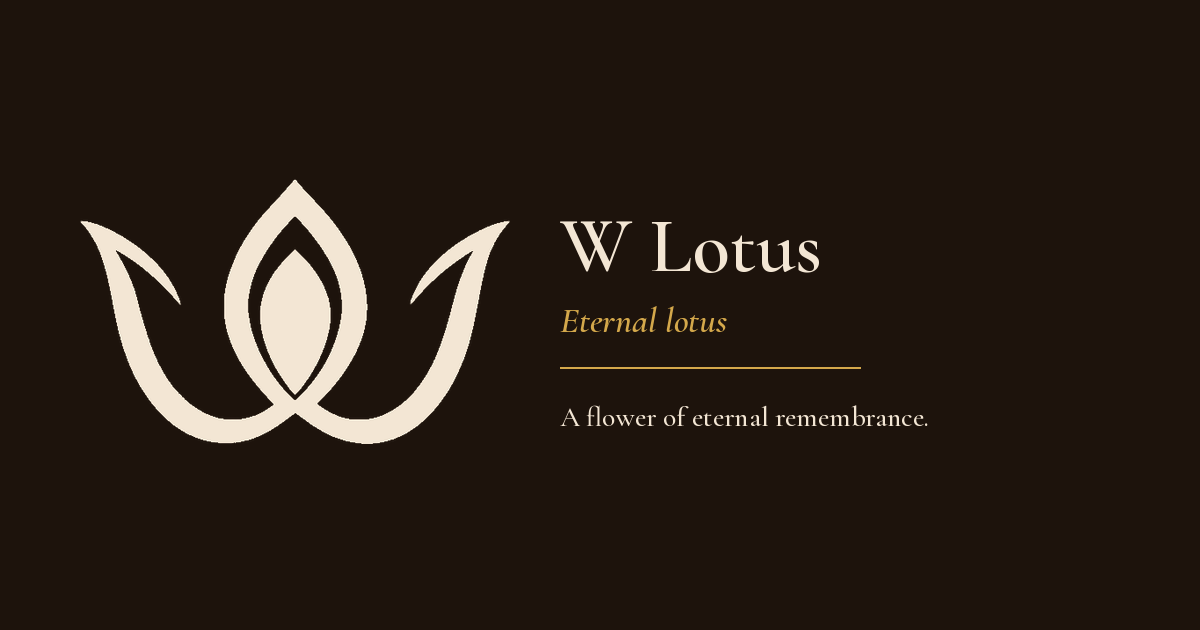
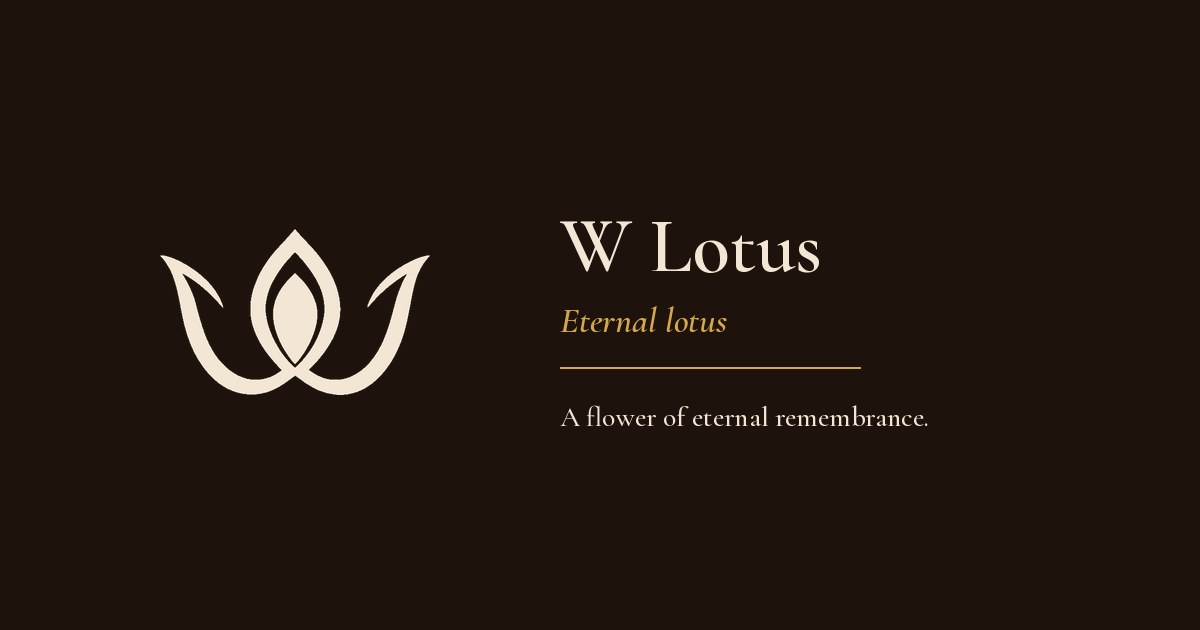
fix(web): scale down the lotus on the Open Graph card
The filled W mark reads heavier than Danaverse’s outline leaf at the
same box size. Shrink it so it sits below the type stack.

Changed region(s): [[0.0617, 0.3016, 0.4317, 0.7238]]

diff --git a/scripts/build-og-image.py b/scripts/build-og-image.py
@@ -79,10 +79,12 @@ def main() -> None:
         sys.exit(f"missing glyph {SOURCE}")
 
     canvas = Image.new("RGB", (WIDTH, HEIGHT), BG)
-    glyph = fit_glyph(extract_cream_glyph(Image.open(SOURCE)), 430, 360)
-    # Danaverse leaf sits around (71, 140) in a ~448×344 box.
-    gx = 80 + (430 - glyph.width) // 2
-    gy = 140 + (344 - glyph.height) // 2
+    # Filled lotus reads heavier than Danaverse's outline leaf. Keep it
+    # clearly smaller than the type stack and centered in the left slot.
+    slot_x, slot_y, slot_w, slot_h = 80, 140, 430, 344
+    glyph = fit_glyph(extract_cream_glyph(Image.open(SOURCE)), 270, 210)
+    gx = slot_x + (slot_w - glyph.width) // 2
+    gy = slot_y + (slot_h - glyph.height) // 2
     canvas.paste(glyph, (gx, gy), glyph)
 
     draw = ImageDraw.Draw(canvas)
